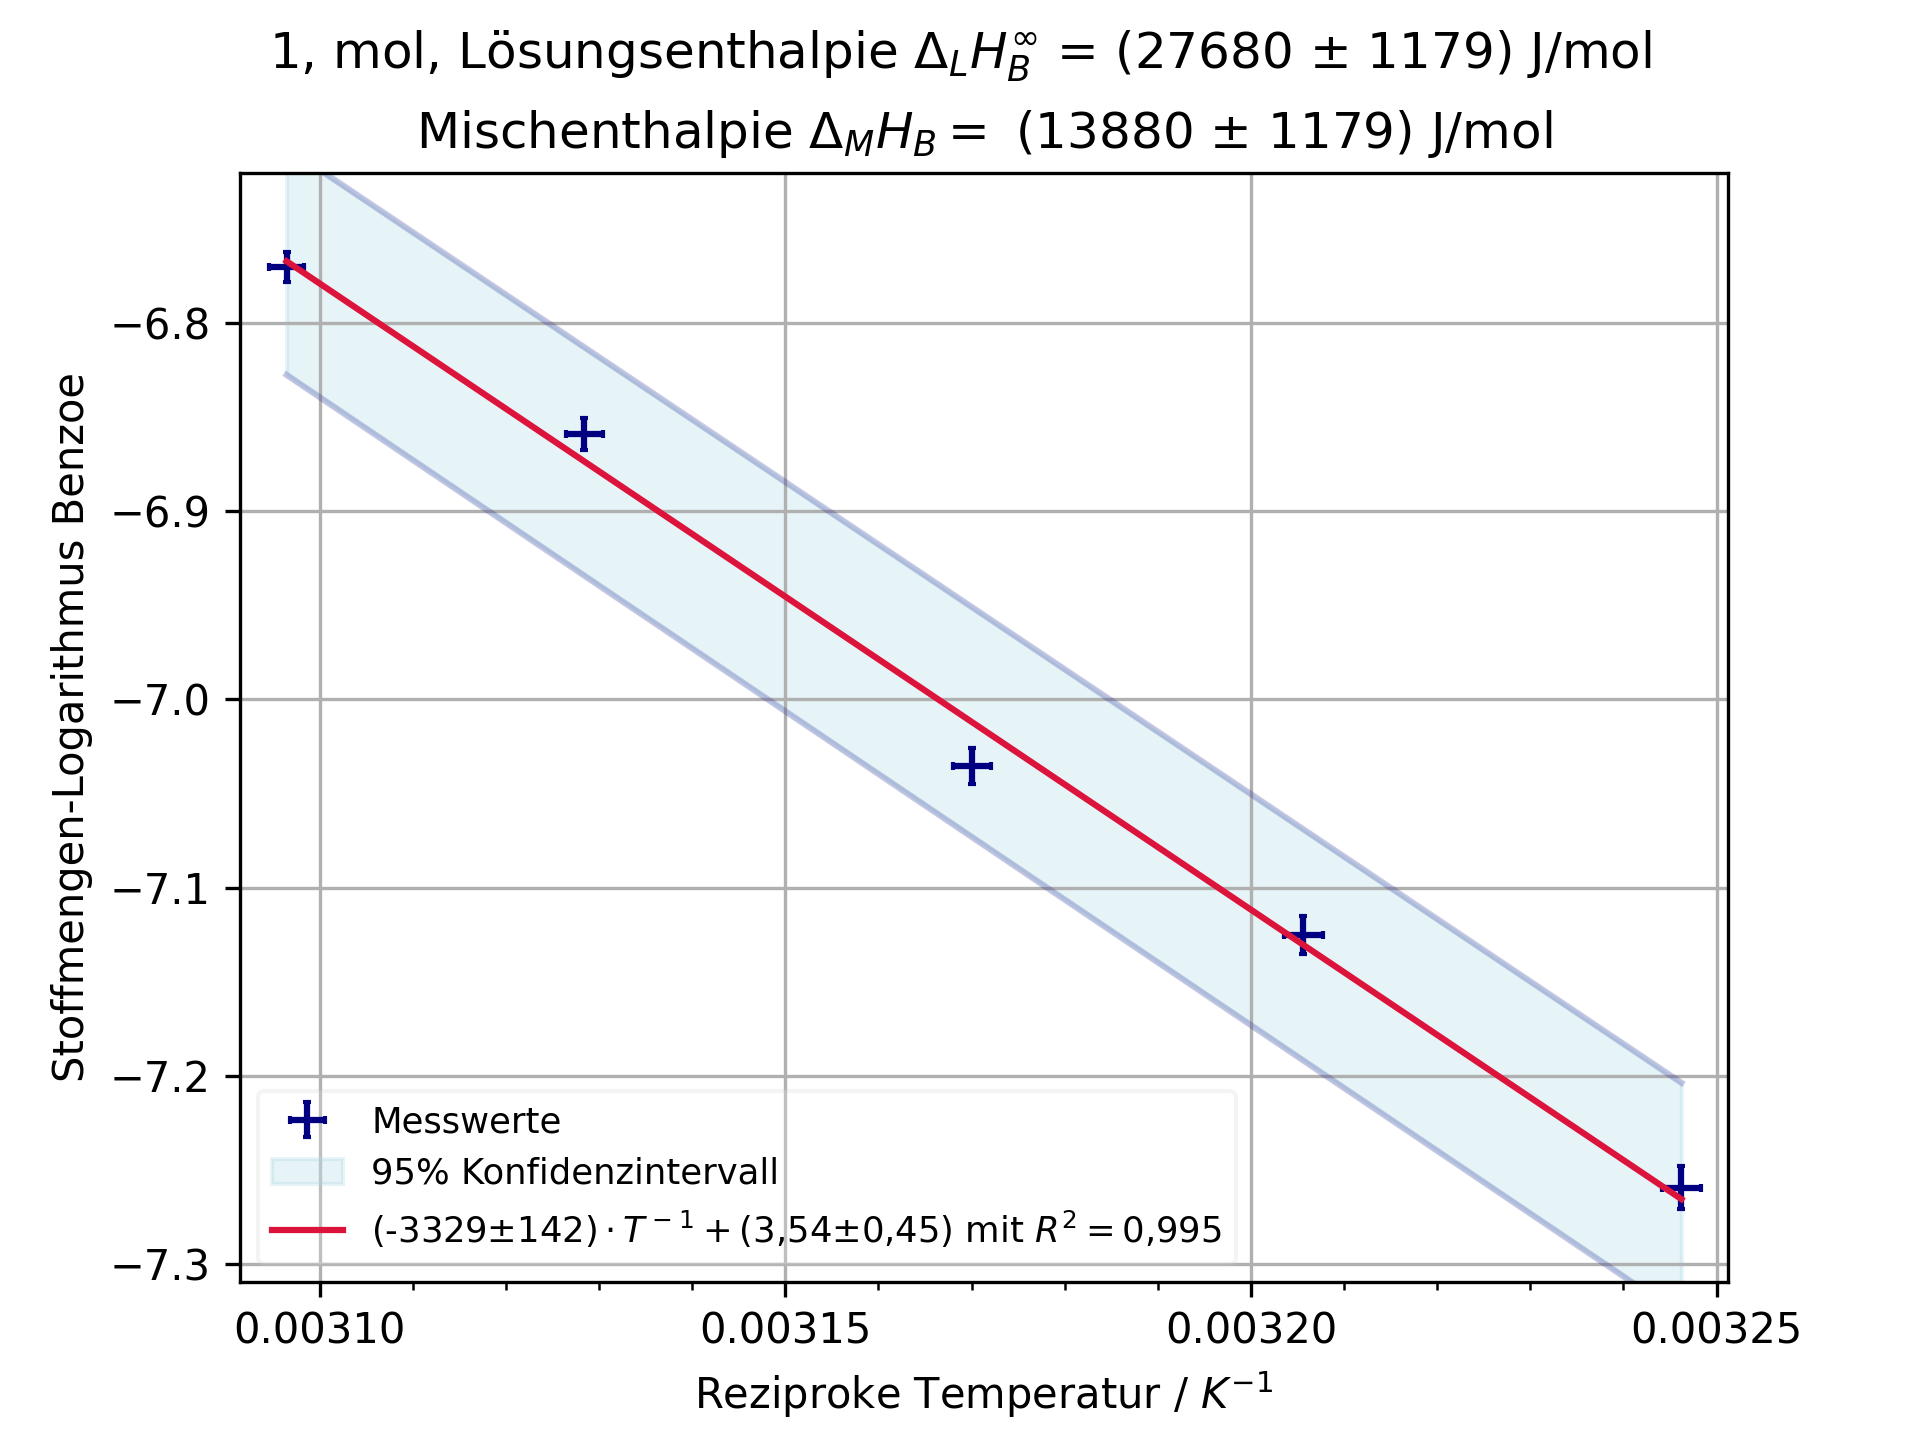
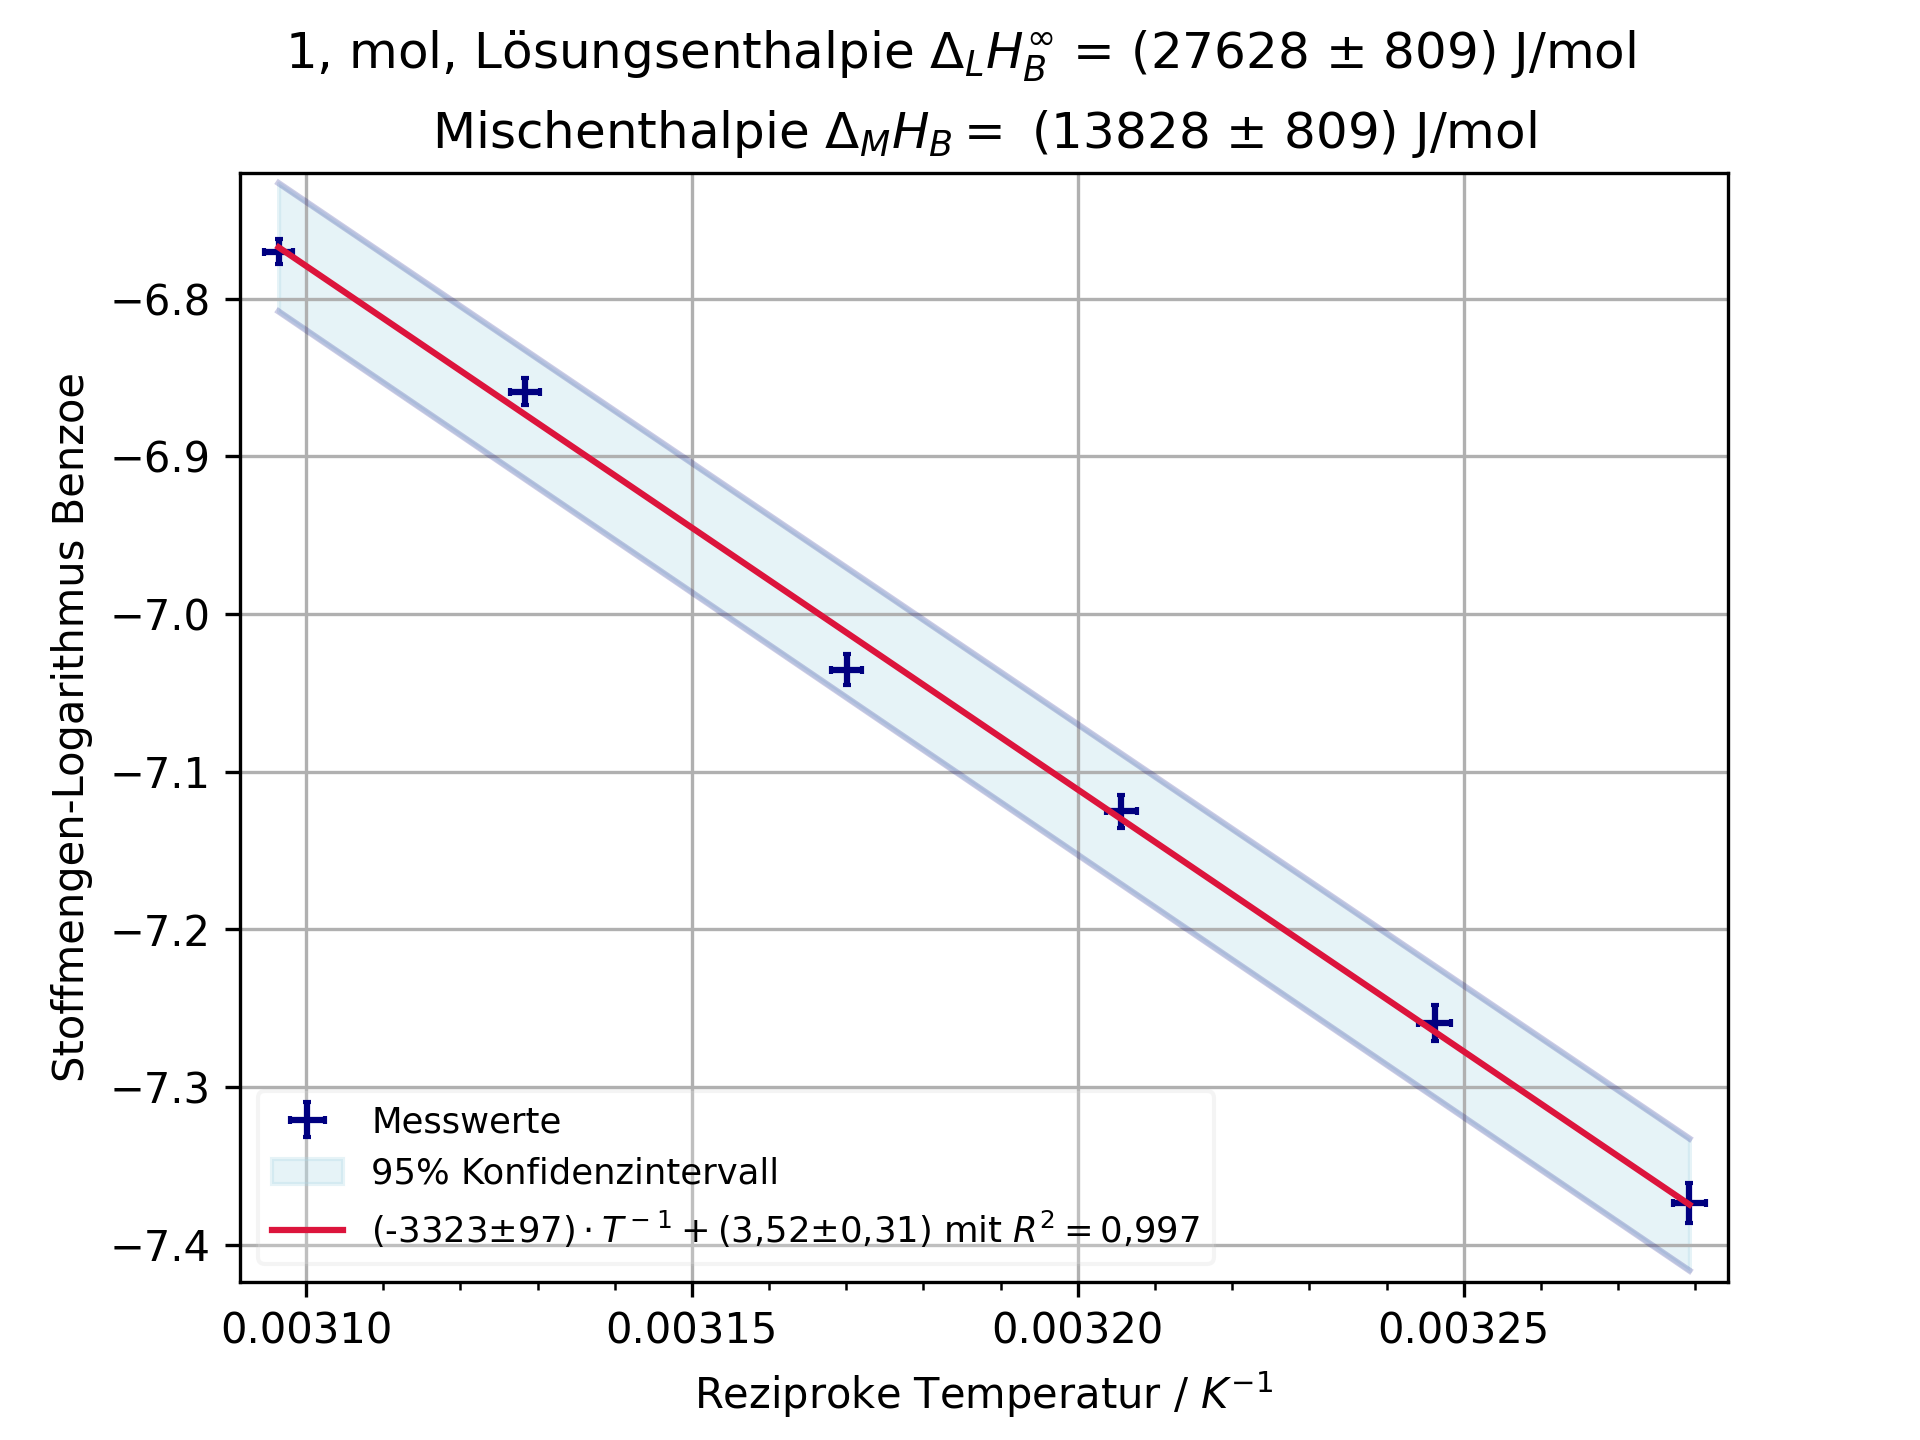
modified:   Daten/Ideal_WS_25_26.csv 	modified:   Daten/Mikroskop_WS_25-26.csv 	modified:   Daten/Wasser_WS_25_26.csv 	modified:   "L\303\266sungen.py" 	modified:   PNG/Wasser_WS_25_26/Wasser A3 Benzoe.png 	modified:   PNG/Wasser_WS_25_26/Wasser A3 Salicyl.png 	modified:   PNG/Wasser_WS_25_26/Wasser

diff --git a/Lösungen.py b/Lösungen.py
@@ -283,7 +283,7 @@ def EineGruppe(Gruppe, semester, Print = True):
 # # Mögliche Auswertmethoden:
 
 # EineAbfrage('A5', 'Salicyl', True, 6) # Einzelne Gruppe und einzelner Stoff
-EineGruppe('B23', 6) # Eine Gruppe und beide Stoffe sowie die ideale Lösung
+EineGruppe('A3', 6) # Eine Gruppe und beide Stoffe sowie die ideale Lösung
 # Ideal('A5', 6, True) # Ideale Lösung für eine Gruppe
 
 # AlleAbfragen([1,2,3,4,5], Print=True, Probegruppe=[])  # Alle Gruppen und Stoffe. Optional Print=True/False für Ausgabe der Ergebnisse
